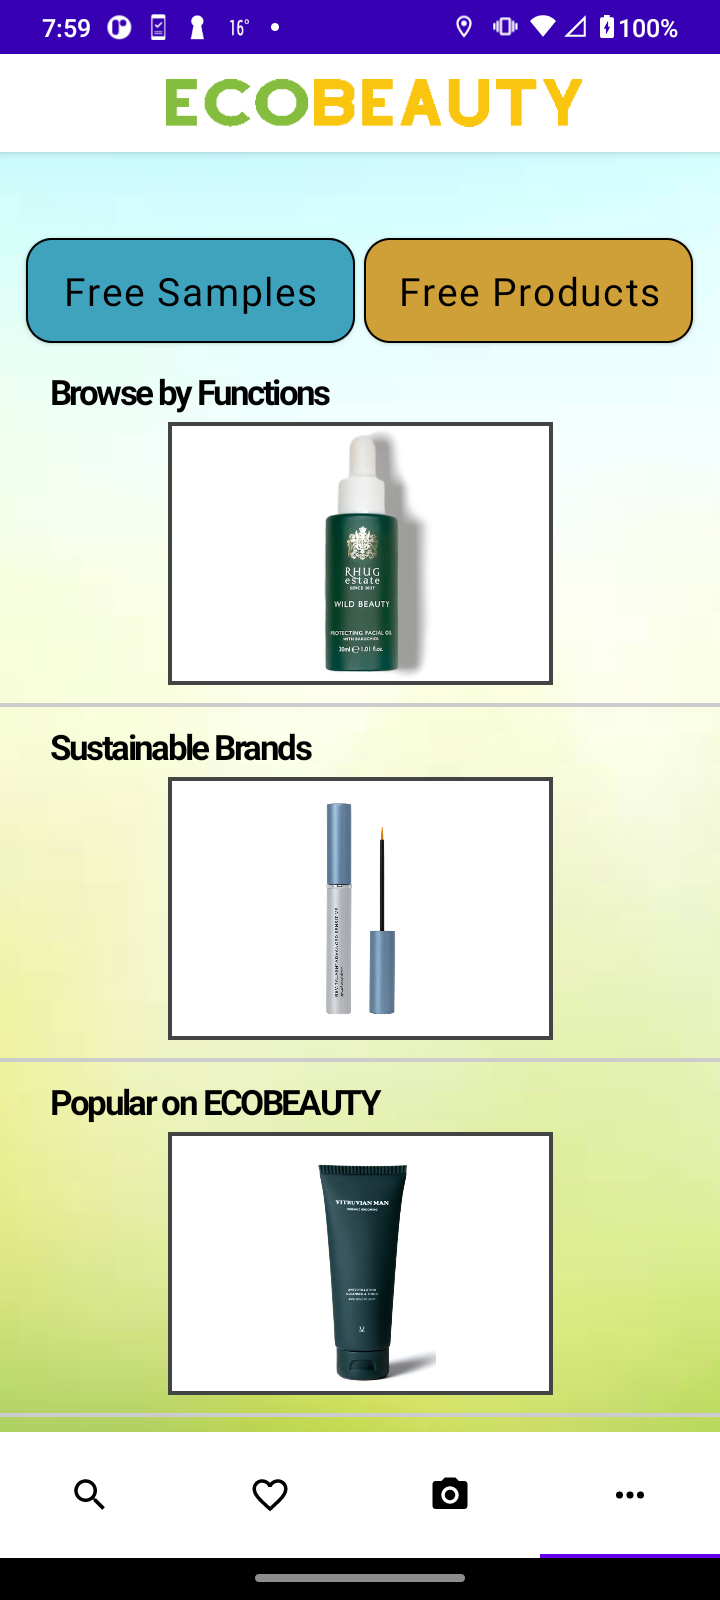
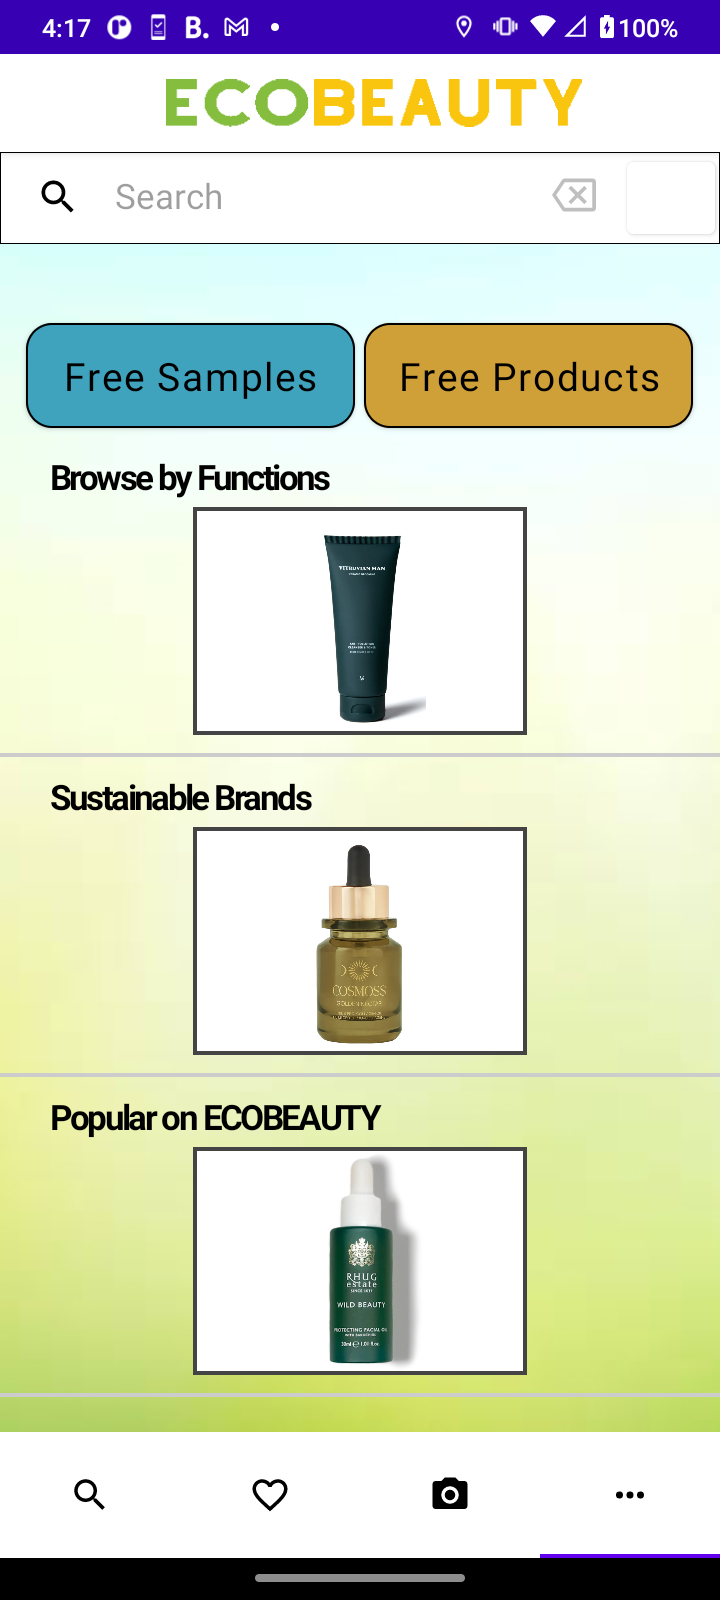
Started to mibrate search box to kotlin > > Search box and search view XML layouts merged. Screenshot added. > TODO: migrate Java logic from SearchView Java class to the Kotlin script.

diff --git a/app/src/main/java/com/beautyorder/androidclient/controller/tabview/product/EBFragmentProductBrowser.kt b/app/src/main/java/com/beautyorder/androidclient/controller/tabview/product/EBFragmentProductBrowser.kt
@@ -38,6 +38,7 @@ import androidx.compose.ui.tooling.preview.Preview
 import androidx.compose.ui.unit.dp
 import androidx.compose.ui.unit.sp
 import com.android.java.androidjavatools.controller.tabview.product.FragmentProductBrowser
+import com.android.java.androidjavatools.controller.tabview.search.SearchBox
 import com.beautyorder.androidclient.R
 
 class EBFragmentProductBrowser: FragmentProductBrowser() {
@@ -53,12 +54,15 @@ class EBFragmentProductBrowser: FragmentProductBrowser() {
             R.drawable.beauty04, R.drawable.beauty05)
 
         Column {
-            Spacer(modifier = Modifier.height(105.dp))
+            Spacer(modifier = Modifier.height(56.dp))
+            SearchBox()
+
+            Spacer(modifier = Modifier.height(45.dp))
             Row {
                 Spacer(modifier = Modifier.width(15.dp))
                 browserButton("Free Samples", Color(0xFF3FA3BD))    // Light blue
                 Spacer(modifier = Modifier.width(5.dp))
-                browserButton("Free Products", Color(0xFFD0A038))     // Orange)
+                browserButton("Free Products", Color(0xFFD0A038))     // Orange
             }
 
             Spacer(modifier = Modifier.height(5.dp))
